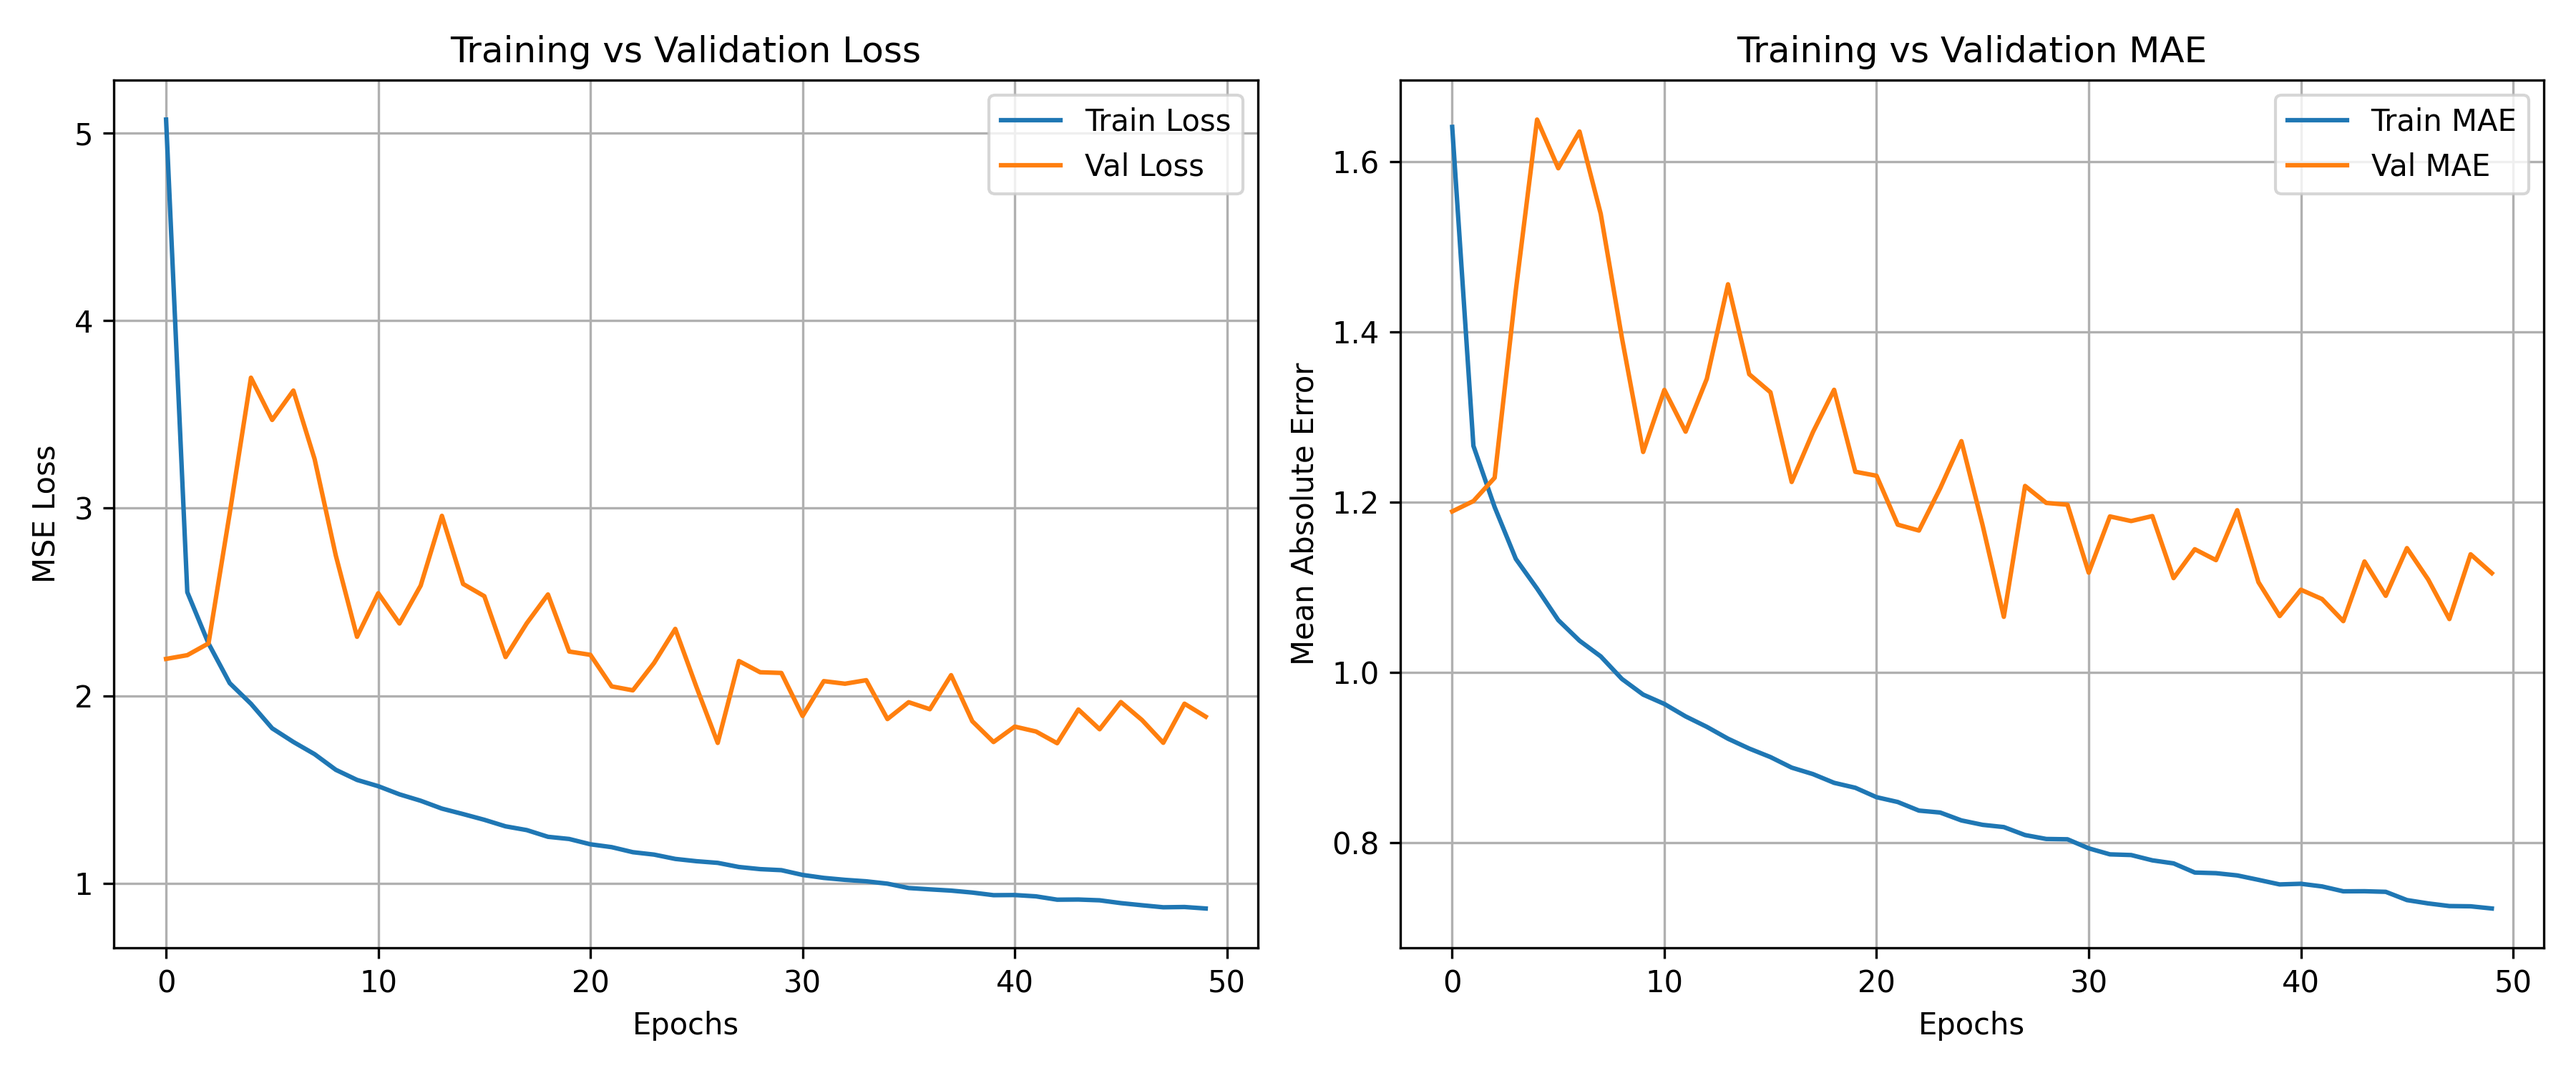
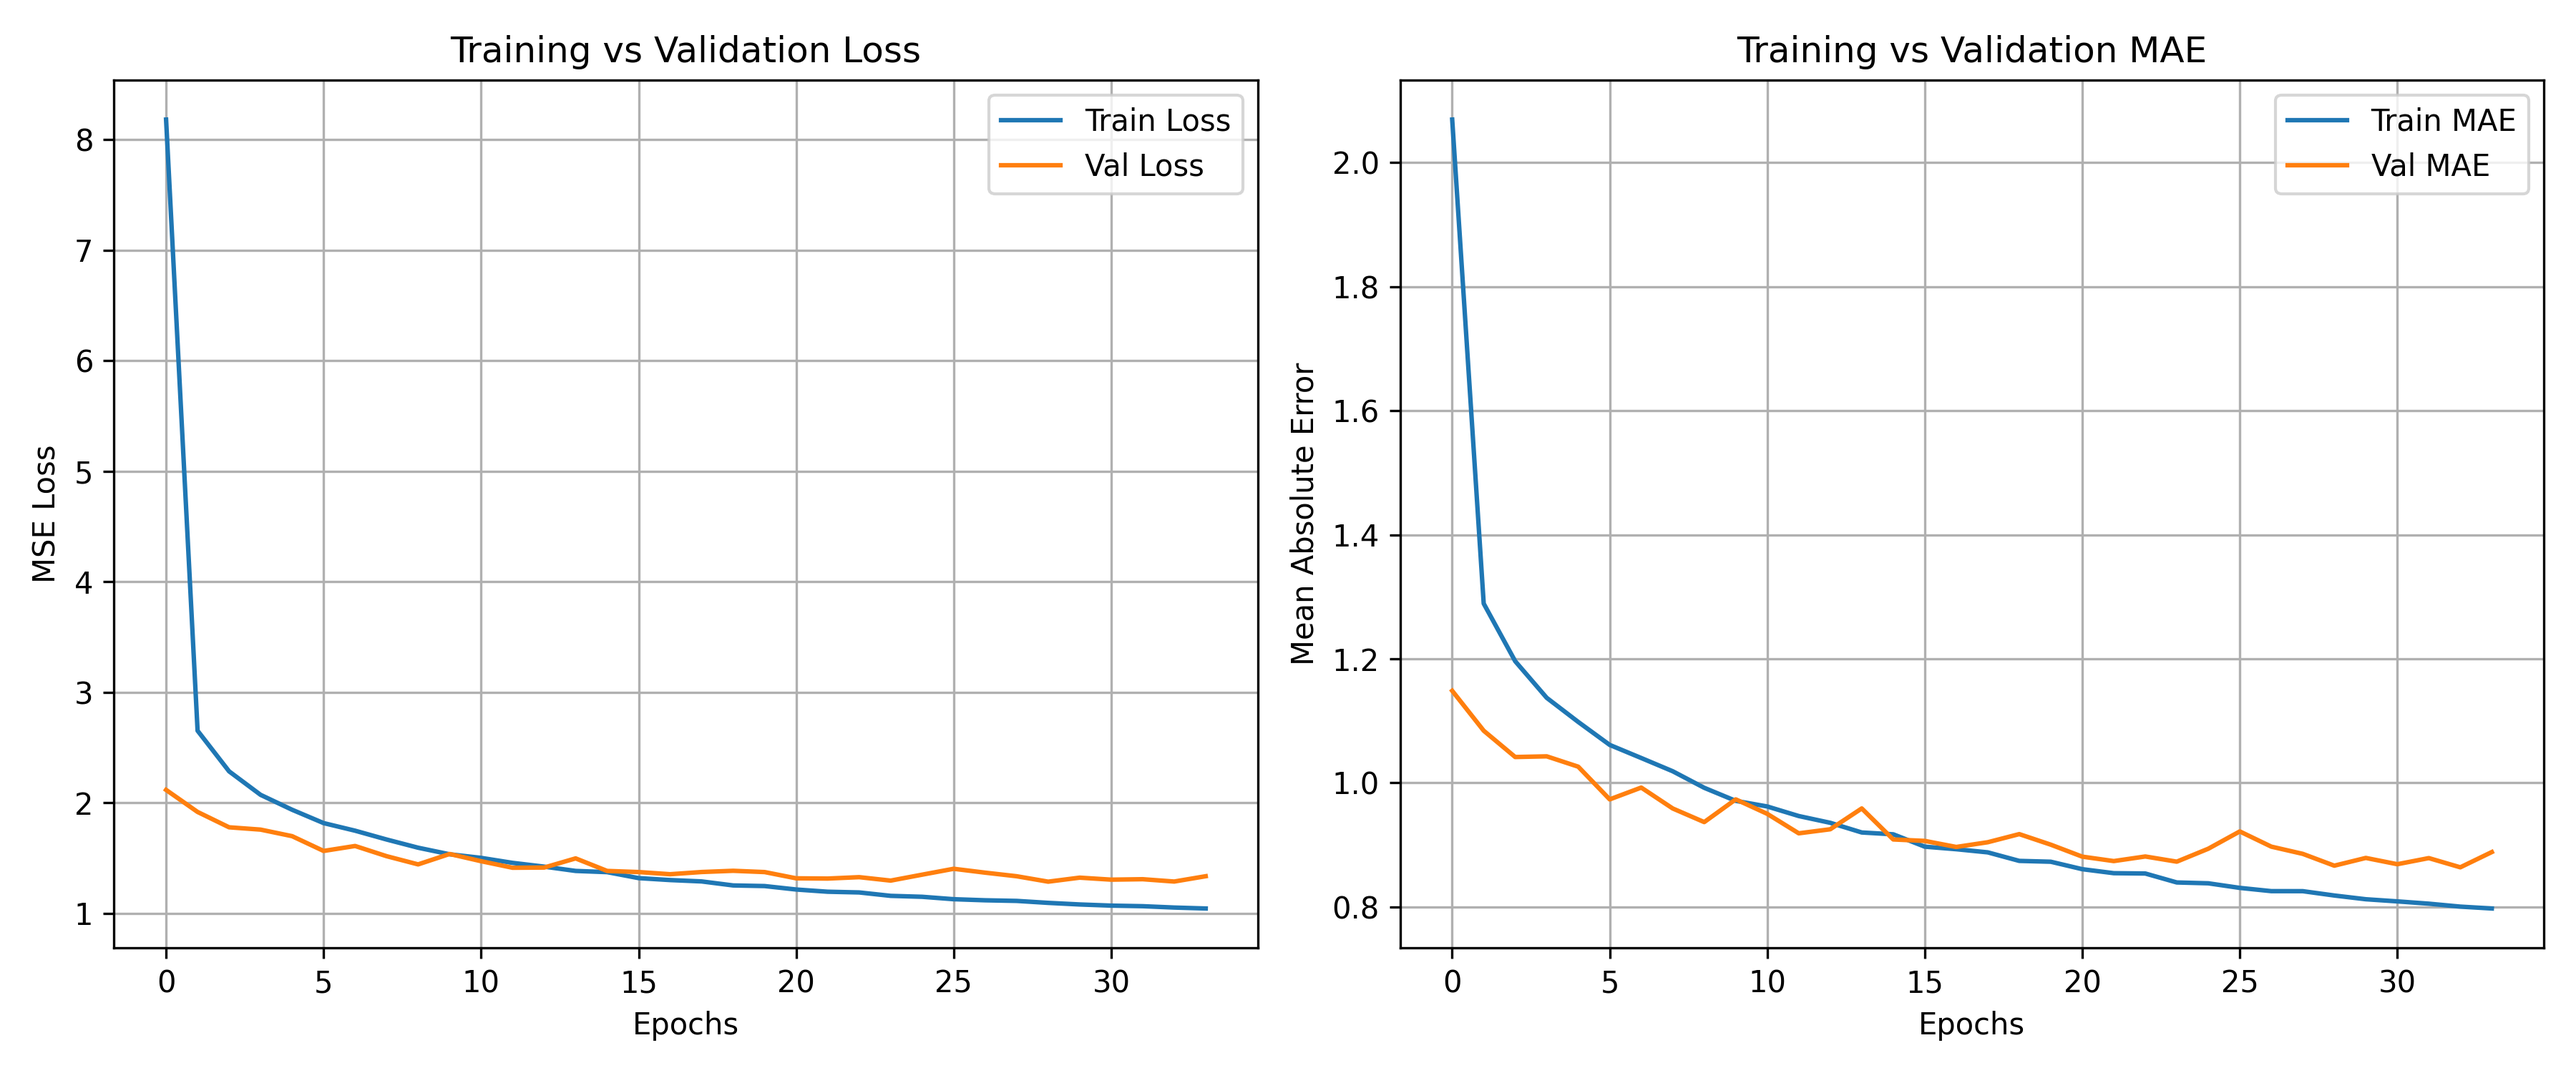
update baseline model, add groupKfold

diff --git a/local_ml/groupKfolds.py b/local_ml/groupKfolds.py
@@ -1,0 +1,135 @@
+# bridge_trump_baseline.py
+import os
+import hashlib
+import numpy as np
+import pandas as pd
+from tensorflow import keras
+from tensorflow.keras import layers
+from sklearn.model_selection import train_test_split, GroupKFold
+# import matplotlib.pyplot as plt
+
+from load_dataset import load_csv_to_dataset
+
+# === Load dataset ===
+X, y = load_csv_to_dataset("bridge_data.csv")
+print("Dataset loaded:", X.shape, y.shape)
+
+# === Train/test split ===
+X_train, X_test, y_train, y_test = train_test_split(
+    X, y, test_size=0.2, random_state=42
+)
+
+# === Build model ===
+def build_model(input_dim):
+    model = keras.Sequential([
+        layers.Input(shape=(input_dim,)),
+        layers.Dense(256, activation='relu'),
+        layers.BatchNormalization(),
+        layers.Dropout(0.3),
+        layers.Dense(128, activation='relu'),
+        layers.BatchNormalization(),
+        layers.Dropout(0.2),
+        layers.Dense(64, activation='relu'),
+        layers.Dense(1, activation='linear'),
+    ])
+    model.compile(optimizer=keras.optimizers.Adam(1e-3), loss='mse', metrics=['mae'])
+    return model
+
+def compute_deal_id_series(df):
+    # Concatenate the 4 hands in a normalized manner to detect identical deals.
+    s = (df['south_hand'].fillna('') + '|' +
+         df['west_hand'].fillna('') + '|' +
+         df['north_hand'].fillna('') + '|' +
+         df['east_hand'].fillna(''))
+    return s.apply(lambda x: hashlib.md5(x.encode('utf-8')).hexdigest())
+
+def group_kfold_cv(df, X, y, k=5, epochs=50, batch_size=128):
+    groups = compute_deal_id_series(df)
+    gkf = GroupKFold(n_splits=k)
+    fold_maes = []
+    for fold_idx, (train_idx, val_idx) in enumerate(gkf.split(X, y, groups)):
+        print(f"\n=== Group Fold {fold_idx+1}/{k} ===")
+        X_train, X_val = X[train_idx], X[val_idx]
+        y_train, y_val = y[train_idx], y[val_idx]
+
+        model = build_model(X.shape[1])
+        early = keras.callbacks.EarlyStopping(monitor='val_loss', patience=5, restore_best_weights=True)
+        history = model.fit(
+            X_train, y_train,
+            validation_data=(X_val, y_val),
+            epochs=epochs,
+            batch_size=batch_size,
+            callbacks=[early],
+            verbose=1
+        )
+        loss, mae = model.evaluate(X_val, y_val, verbose=0)
+        print(f"Group Fold {fold_idx+1} MAE: {mae:.4f}")
+        fold_maes.append(mae)
+
+    mean_mae = np.mean(fold_maes)
+    std_mae = np.std(fold_maes, ddof=1)
+    ci95 = 1.96 * std_mae / np.sqrt(k)
+    print(f"\nGroupKFold MAE: mean={mean_mae:.4f}, std={std_mae:.4f}, 95% CI ±{ci95:.4f}")
+    return fold_maes
+
+
+if __name__ == "__main__":
+    df = pd.read_csv("bridge_data.csv")
+    X, y = load_csv_to_dataset("bridge_data.csv")
+    print("X shape", X.shape)
+
+    # run GroupKFold
+    fold_maes_group = group_kfold_cv(df, X, y, k=5, epochs=50, batch_size=128)
+
+# # === Add early stopping ===
+# early_stopping = keras.callbacks.EarlyStopping(
+#     monitor='val_loss',
+#     patience=5,
+#     restore_best_weights=True
+# )
+#
+# # === Train model ===
+# history = model.fit(
+#     X_train, y_train,
+#     validation_data=(X_test, y_test),
+#     epochs=50,
+#     batch_size=128,
+#     callbacks=[early_stopping],
+#     verbose=1
+# )
+#
+# # === Evaluate performance ===
+# loss, mae = model.evaluate(X_test, y_test)
+# print(f"Test MAE: {mae:.4f}")
+
+# === Save plots ===
+# os.makedirs("plots", exist_ok=True)
+#
+# plt.figure(figsize=(12, 5))
+#
+# # Loss curve
+# plt.subplot(1, 2, 1)
+# plt.plot(history.history['loss'], label='Train Loss')
+# plt.plot(history.history['val_loss'], label='Val Loss')
+# plt.title('Training vs Validation Loss')
+# plt.xlabel('Epochs')
+# plt.ylabel('MSE Loss')
+# plt.legend()
+# plt.grid(True)
+#
+# # MAE curve
+# plt.subplot(1, 2, 2)
+# plt.plot(history.history['mae'], label='Train MAE')
+# plt.plot(history.history['val_mae'], label='Val MAE')
+# plt.title('Training vs Validation MAE')
+# plt.xlabel('Epochs')
+# plt.ylabel('Mean Absolute Error')
+# plt.legend()
+# plt.grid(True)
+#
+# plt.tight_layout()
+# plt.savefig("plots/training_curves.png", dpi=300)
+# plt.close()
+#
+# print("✅ Training curves saved to: plots/training_curves.png")
+#

diff --git a/local_ml/first.py b/local_ml/first.py
@@ -1,10 +1,10 @@
+# bridge_trump_baseline.py
 import os
 from tensorflow import keras
 from tensorflow.keras import layers
 from sklearn.model_selection import train_test_split
 import matplotlib.pyplot as plt
 
-# === Import your loader ===
 from load_dataset import load_csv_to_dataset
 
 # === Load dataset ===
@@ -18,11 +18,15 @@ X_train, X_test, y_train, y_test = train_test_split(
 
 # === Build model ===
 model = keras.Sequential([
-    layers.Input(shape=(X.shape[1],)),  # (156,)
+    layers.Input(shape=(X.shape[1],)),
     layers.Dense(256, activation='relu'),
+    layers.BatchNormalization(),
     layers.Dropout(0.3),
+
     layers.Dense(128, activation='relu'),
+    layers.BatchNormalization(),
     layers.Dropout(0.2),
+
     layers.Dense(64, activation='relu'),
     layers.Dense(1, activation='linear')
 ])
@@ -36,26 +40,33 @@ model.compile(
 
 model.summary()
 
+# === Add early stopping ===
+early_stopping = keras.callbacks.EarlyStopping(
+    monitor='val_loss',
+    patience=5,
+    restore_best_weights=True
+)
+
 # === Train model ===
 history = model.fit(
     X_train, y_train,
     validation_data=(X_test, y_test),
     epochs=50,
     batch_size=128,
-    # verbose=1
+    callbacks=[early_stopping],
+    verbose=1
 )
 
 # === Evaluate performance ===
 loss, mae = model.evaluate(X_test, y_test)
-print(f"Test MAE (scaled): {mae:.4f}")
+print(f"Test MAE: {mae:.4f}")
 
-# === Create output directory if not exists ===
+# === Save plots ===
 os.makedirs("plots", exist_ok=True)
 
-# === Plot training curves and save ===
 plt.figure(figsize=(12, 5))
 
-# Loss
+# Loss curve
 plt.subplot(1, 2, 1)
 plt.plot(history.history['loss'], label='Train Loss')
 plt.plot(history.history['val_loss'], label='Val Loss')
@@ -65,7 +76,7 @@ plt.ylabel('MSE Loss')
 plt.legend()
 plt.grid(True)
 
-# MAE
+# MAE curve
 plt.subplot(1, 2, 2)
 plt.plot(history.history['mae'], label='Train MAE')
 plt.plot(history.history['val_mae'], label='Val MAE')
